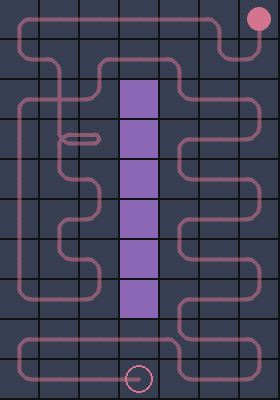
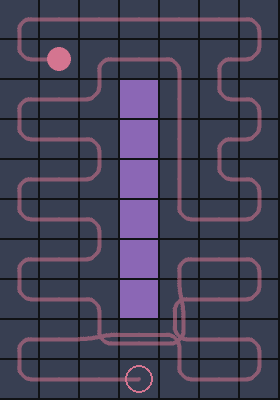
docs: go-back and work-sharing edge cases; planner-only parameter table
edge_cases.py now takes planner settings per case, so work sharing is off except in the two pictures about it.

Changed region(s): [[0.0571, 0.0, 0.9714, 0.87], [0.0571, 0.51, 0.2571, 0.66]]

diff --git a/edge_cases.py b/edge_cases.py
@@ -24,32 +24,49 @@ pygame.display.set_mode((1, 1))
 
 import main
 from palette import BACKGROUND_COLOR
+from Pathing import Planner
 from Sim import Simulation
 
 OUT_DIR = os.path.join("docs", "edge_cases")
 TILE = 20  # px per cell before the 2x upscale, so cells come out 40 px wide
 
-# name -> (width, height, number of drones, obstacle cells). (0, 0) is the top-left cell; drones start on the bottom row.
+OFF = float("inf")
+
+# Work sharing between drones is switched off unless a case is about it, so each map shows one thing.
+NO_SHARING = {"REBALANCE_EVERY": 0}
+
+# name -> (width, height, number of drones, obstacle cells, planner settings for this case).
+# (0, 0) is the top-left cell; drones start on the bottom row.
 CASES = {
-    "blocked_cell": (2, 6, 1, [(0, 3)]),
-    "same_tick": (12, 6, 4, [(0, 1), (0, 4), (3, 0), (3, 4), (4, 4), (6, 3), (7, 4), (8, 5)]),
-    "neighbour_cells": (8, 8, 2, [(4, 5), (6, 6)]),
-    "unreachable_cell": (8, 8, 2, [(4, 0), (5, 1), (6, 0)]),
-    "head_on": (12, 6, 4, [(4, 2), (6, 0), (6, 3), (7, 4), (8, 5), (9, 4), (11, 1)]),
-    "corridor": (6, 7, 2, [(1, 0), (3, 1), (4, 1), (5, 1)]),
-    "boxed_in_start": (12, 6, 4, [(2, 5), (3, 4)]),
-    "parked_drone": (6, 7, 2, [(1, 3), (3, 1), (4, 0)]),
-    "start_walk": (12, 5, 4, []),
-    "nearer_end": (6, 6, 1, [(1, 3), (2, 3), (3, 3), (4, 3), (5, 3)]),
-    "wall": (7, 10, 1, [(3, y) for y in range(2, 8)]),
+    "blocked_cell": (2, 6, 1, [(0, 3)], NO_SHARING),
+    "same_tick": (12, 6, 4, [(0, 1), (0, 4), (3, 0), (3, 4), (4, 4), (6, 3), (7, 4), (8, 5)], NO_SHARING),
+    "neighbour_cells": (8, 8, 2, [(4, 5), (6, 6)], NO_SHARING),
+    "unreachable_cell": (8, 8, 2, [(4, 0), (5, 1), (6, 0)], NO_SHARING),
+    "head_on": (12, 6, 4, [(4, 2), (6, 0), (6, 3), (7, 4), (8, 5), (9, 4), (11, 1)], NO_SHARING),
+    "corridor": (6, 7, 2, [(1, 0), (3, 1), (4, 1), (5, 1)], NO_SHARING),
+    "boxed_in_start": (12, 6, 4, [(2, 5), (3, 4)], NO_SHARING),
+    "parked_drone": (6, 7, 2, [(1, 3), (3, 1), (4, 0)], NO_SHARING),
+    "start_walk": (12, 5, 4, [], NO_SHARING),
+    "nearer_end": (6, 6, 1, [(1, 3), (2, 3), (3, 3), (4, 3), (5, 3)], NO_SHARING),
+    "wall": (7, 10, 1, [(3, y) for y in range(2, 8)], NO_SHARING),
+    "skipped_area": (9, 16, 1, [(5, y) for y in range(10, 14)] + [(x, 9) for x in range(0, 6)], NO_SHARING),
+    "finished_drone_helps": (9, 10, 2, [], {"REBALANCE_GAP": OFF}),
+    "boundary_shift": (9, 14, 2, [], {"HELP_MIN": OFF}),
 }
 
 
 def run(case):
-    width, height, numDrones, obstacles = CASES[case]
-    sim = Simulation(numDrones=numDrones, width=width, height=height, obstacles=obstacles)
-    while sim.step():
-        pass
+    width, height, numDrones, obstacles, settings = CASES[case]
+    saved = {name: getattr(Planner, name) for name in settings}
+    for name, value in settings.items():
+        setattr(Planner, name, value)
+    try:
+        sim = Simulation(numDrones=numDrones, width=width, height=height, obstacles=obstacles)
+        while sim.step():
+            pass
+    finally:
+        for name, value in saved.items():
+            setattr(Planner, name, value)
     return sim
 
 

diff --git a/README.md b/README.md
@@ -29,61 +29,32 @@ The field is cut into one vertical column per drone. Each drone sweeps its colum
 - A drone never enters a cell that another drone is staying in or entering, and two drones never swap places.
 - A drone making a single step along its sweep goes before a detouring one. Ties go to the lower drone index.
 - Drones start side by side at the bottom centre. The walk to their own column never reassigns cells.
-- A drone that finishes waits in its last cell until the others are done.
+- Before moving up a row, a drone checks for cells it skipped lower down. If the shortest route to one runs only through cells already seen, and the trip is no longer than the rows it still has to climb, it goes back for it then instead of at the end.
+- Every 5 ticks the work is shared out. If two neighbours' remaining work differs by more than 10 cells, the lighter one takes a one-cell strip of the other's column in the rows above them both.
+- A drone that finishes takes over the cells the busiest drone would reach last, as many as it can finish by the time that drone is done. If nobody needs help it waits in its last cell.
 
 ## Parameters
 
-Every number the sim depends on, and where it came from. "Given" means it was a design decision, "tuned" means it was chosen by measurement, and "picked" means a reasonable value that has not been tuned.
-
-### Field and drones
+Every number the planner depends on, all in `Planner` in `Pathing.py`, and where it came from. "Tuned" means chosen by measurement, "picked" means a reasonable value that was not tuned, and "derived" means it follows from something else. Measurements are on the 30 x 60 field with 4 drones, so re-measure if the grid or drone count changes much.
 
 | Parameter | Value | What it does | Where the value comes from |
 |---|---|---|---|
-| `GRID_WIDTH` x `GRID_HEIGHT` (`Pathing.py`) | 30 x 60 | Size of the field in cells. | Given. |
-| `NUM_DRONES` (`Drones.py`) | 4 | Number of drones, and so of columns. | Given. |
-| Column width | 7 or 8 cells | Width of each drone's column. | Derived: `GRID_WIDTH / NUM_DRONES`, split as evenly as whole cells allow (8, 7, 7, 8). |
-| `SIGHT_RANGE` (`Drones.py`) | 1 | How far a drone sees: its own cell plus the 8 around it. | Given. |
-| `NEIGHBOURS` (`Pathing.py`) | 4 directions | Drones move one cell left, right, up or down per tick, never diagonally. | Given. |
-
-### Planner (`Planner` in `Pathing.py`)
-
-| Parameter | Value | What it does | Where the value comes from |
-|---|---|---|---|
-| `CLIMB_COST` | 3 | Extra cost, in steps, for each row a candidate cell lies above the drone. It makes a drone finish cells at or below its row before moving up, unless they are more than about 3 steps further away than the next row. | Tuned on the 30 x 60 field with 4 drones. Values 1 to 4 finished fastest and were within noise of each other; 6 and above were 3 to 5% slower at 8 to 20% obstacles. It is not scaled with column width, so re-measure if the grid or drone count changes much. |
+| `CLIMB_COST` | 3 | Extra cost, in steps, for each row a candidate cell lies above the drone. It makes a drone finish cells at or below its row before moving up, unless they are more than about 3 steps further away than the next row. | Tuned. Values 1 to 4 finished fastest and were within noise of each other; 6 and above were 3 to 5% slower at 8 to 20% obstacles. It is not scaled with column width. |
 | `REROUTE_AFTER` | 2 ticks | How long a drone that must give way stays blocked behind another drone before it looks for a way round. | Picked. It is the "wait one tick, then go round" rule: one tick waiting, then act on the second. |
 | `GIVE_UP_AFTER` | 8 ticks | How long a drone stays blocked with no way round before it skips the cell it was heading for. Also how long the drone with right of way holds its line in a head-on meeting. | Picked, not tuned. Long enough for another drone to clear a short corridor. |
 | `STALL_FACTOR` | 3 | A drone that goes `STALL_FACTOR x (width + height)` ticks without ticking off a cell drops the one it is heading for. | Picked as a safety net. On the 30 x 60 field the limit is 270 ticks, far longer than any real detour. It has never triggered in testing. |
 | Prediction horizon | length of the detour | How far ahead a neighbour's movements are played forward when deciding who reaches a shared cell first. | Derived. Anything the neighbour would reach later than the detouring drone counts as "later" anyway. |
+| `BACKTRACK_WEIGHT` | 1.0 | A drone about to move up goes back for a skipped cell if the trip is at most this many times the rows it still has to climb. 0 switches the behaviour off. | Derived, then checked. Going back now costs about two trips; leaving the cell to the end costs about one trip plus the rows left to climb, so the break-even is 1. Measured: 0 was 4% slower on random maps and up to 10% on maps with a walled-off area; 0.5 to 2.5 were within noise of each other. |
+| `REBALANCE_EVERY` | 5 ticks | How often work is shared out between drones. 0 switches sharing off. | Picked. 1, 5 and 15 finished within noise of each other. Sharing as a whole cut the time to finish by 8 to 9%. |
+| `REBALANCE_GAP` | 10 cells | Two neighbours' remaining work must differ by more than this before a strip of cells moves between them. | Picked. 4, 10, 20 and 40 finished within noise of each other. |
+| `HELP_MIN` | 6 cells | A finished drone only helps a drone with at least this many cells left. | Picked. 2, 6 and 20 finished within noise of each other. |
 | Tie-breaks | left, lower index | Two equally cheap cells: the left one. Two drones with equal right of way: the lower index. | Picked, so that runs are repeatable. |
-
-### Obstacle generation (`Sim.py`)
-
-| Parameter | Value | What it does | Where the value comes from |
-|---|---|---|---|
-| `OBSTACLE_RATE` | 0.08 | Share of cells that are obstacles. Slider: 0 to 20% in 0.5% steps. | Picked as a default that gives frequent detours without walling areas off. |
-| `OBSTACLE_ROUNDS` | 3 | Rounds the obstacles are placed in. Slider: 1 to 8. | Given. |
-| `CLUSTER_WEIGHT` | 3.0 | From round 2 on, how many times as likely a cell beside an obstacle is to be picked. Slider: 1x to 10x in 0.5 steps. | Picked for "slightly more likely". At 10% obstacles it raises the share of obstacles touching another from 33% to about 53%. |
-
-### Visualizer (`main.py`, `Drones.py`, `palette.py`)
-
-| Parameter | Value | What it does | Where the value comes from |
-|---|---|---|---|
-| `STEPS_PER_SECOND` | 40 | Ticks per second while playing or holding a step key. | Given. |
-| `HOLD_DELAY` | 0.2 s | How long an arrow key or the Step / Back button is held before it repeats. | Given. |
-| `SCALE_DOWN_FACTOR` | 2 | The scene is drawn at half resolution and scaled up. | Picked, to match the look of the earlier GridTesting viewer. |
-| Cell size on screen | 16 px on an 1800 x 1169 display | Size of one grid cell. | Derived: the largest whole size that fits three grids across and 60 rows down. |
-| `TRAIL_SUPERSAMPLE` | 2 | Trails are drawn this many times larger, then shrunk, to smooth them. | Tuned for speed on the 30 x 60 field: at 3 a redraw took about 25 ms, at 2 about 17 ms. |
-| `TRAIL_LANES` | 3 | Most trail lines drawn side by side between two cells; a fourth pass onwards overlaps these. | Given. |
-| `TRAIL_SPACING`, `CORNER_RADIUS` | 0.22, 0.3 of a cell | Gap between side-by-side trail lines, and how rounded a trail's corners are. | Picked by eye. |
-| `TRAIL_WIDTH`, `TRAIL_OPACITY` | 1.5 px, 0.55 | Thickness and strength of trails. | Picked by eye. |
-| `ALLOCATION_OPACITY`, `VISIT_OUTLINE` | 0.6, 2 px | Allocation grid: strength of a drone's tint, and thickness of the outline on a visited cell. | Picked by eye. |
-| `MUTE` | 0.4 | How far drone and obstacle colours are pulled towards grey. | Picked by eye. |
 
 ## Edge cases
 
 Each picture is the drone view of a small map built to make one situation happen, after the run has finished. A ring marks where a drone started and a dot where it ended. Purple cells are obstacles. Where a drone flew between the same two cells more than once, the lines are drawn side by side. Drones are red, yellow, green and blue, from left to right.
 
-To add a case, put its map in `CASES` in `edge_cases.py`, run the script, and describe it here. The maps are tuned to the planner as it stands, so after changing a planner rule or parameter, re-run the script and check each picture still shows what its entry says.
+To add a case, put its map in `CASES` in `edge_cases.py`, run the script, and describe it here. The maps are tuned to the planner as it stands, so after changing a planner rule or parameter, re-run the script and check each picture still shows what its entry says. Work sharing between drones is switched off in every picture except the two that are about it, so each shows one thing.
 
 ### A cell in the sweep is an obstacle
 
@@ -147,7 +118,7 @@ Red has nowhere to step aside to, so yellow moves out of the way even though it 
 
 Red finishes first and parks in its last cell, at the top of its column. Yellow's last cell is next door and can only be reached through the cell red is sitting in.
 
-A finished drone normally stays put. One that blocks another drone steps aside to the nearest cell off that drone's route, here one cell to the left, and yellow finishes.
+A finished drone with nobody to help stays put. One that blocks another drone steps aside to the nearest cell off that drone's route, here one cell to the left, and yellow finishes.
 
 ### The walk to the starting column
 
@@ -171,13 +142,33 @@ The drone picks whichever end of a row is fewer A* steps away. It sweeps from th
 
 A wall of obstacles splits six rows of the drone's column into a left half and a right half. Taking rows strictly in order would mean flying round the end of the wall twice for every row.
 
-Moving up a row costs 3 extra steps in the drone's scoring, far less than a trip round the wall. So it sweeps the left half to the top of the wall, crosses once, sweeps the right half downwards, and then carries on above.
+Moving up a row costs 3 extra steps in the drone's scoring, far less than a trip round the wall. The drone starts up the right half, goes back for the left half after two rows while that is still a short trip, sweeps it to the top of the wall, crosses once, and finishes the right half.
+
+### A walled-off area that gets skipped
+
+![skipped area](docs/edge_cases/skipped_area.png)
+
+An area on the left is walled off on its right and on top, so it can only be entered from below. The drone finishes a row on the far side of the wall and starts climbing there. Left alone, it would sweep to the top of the field and then fly all the way back down for the area.
+
+Before each move up it checks the skipped cells. Here the known way back, round the foot of the wall, is 5 steps and nothing unseen could be shorter, with 12 rows still to climb, so it goes back after two rows. That saves 10 ticks on this map. Had an unseen cell offered a possible shortcut, it would have kept sweeping along the wall until that cell was seen.
+
+### One drone has more to do than its neighbour
+
+![boundary shift](docs/edge_cases/boundary_shift.png)
+
+Yellow's column is one cell wider than red's, which leaves it 14 more cells to cover.
+
+Neighbours compare their remaining work every 5 ticks. Red takes the nearest cell of yellow's column in every row above them both, twelve cells in all, so its rows are one cell wider from there up and the two finish closer together.
+
+### A drone finishes early
+
+![finished drone helps](docs/edge_cases/finished_drone_helps.png)
+
+Red's column is one cell narrower than yellow's, so red finishes while yellow still has most of its top row to do. (Boundary shifting is switched off for this picture.)
+
+A finished drone takes over the cells the busiest drone would reach last, as many as it can finish by the time that drone is done. Red flies on into yellow's top row and takes four cells, and the two finish within two ticks of each other.
 
 ### Cases without a picture yet
 
 - **A taken cell that a re-plan would bypass.** A drone that took a neighbour's cell for a detour keeps it as a required stop: if it has to re-plan, the new route still goes through that cell first. No small map shows this cleanly yet.
 - **A drone that stops making progress.** A drone that goes 270 ticks (on this field) without ticking off a cell drops the one it is heading for and picks another, so one cell can never stall a run. It has not happened in testing.
-
-## Obstacles
-
-Obstacles are placed in rounds, three by default. The first round is uniformly random. In each later round, a free cell directly left, right, above or below an existing obstacle is `clustering` times as likely to be picked as any other cell, so obstacles form clusters.
